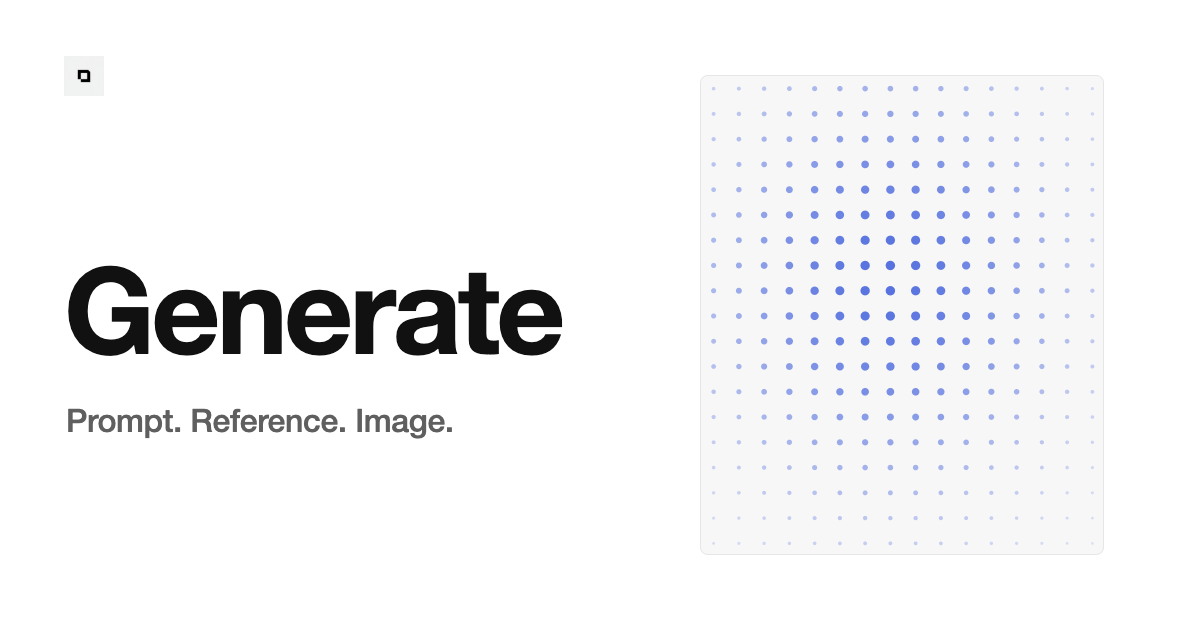
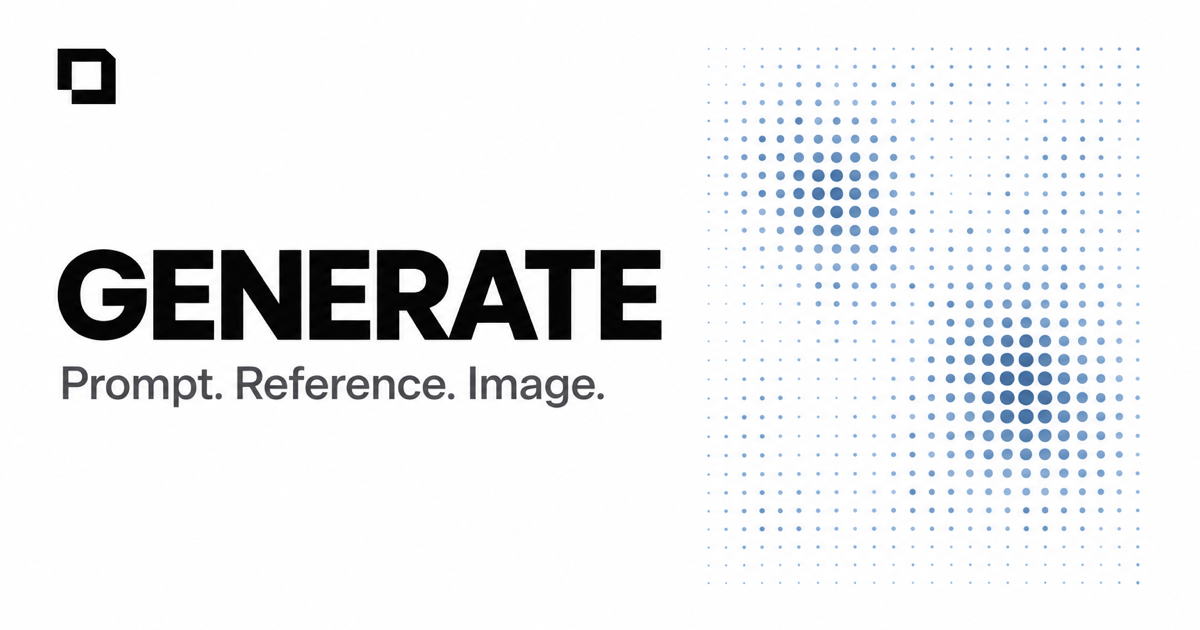
Generate OG: real Sunburst render, replacing the HTML/Playwright fallback
OPENAI_API_KEY is now available, so the Generate OG card no longer
needs the HTML/canvas workaround from the previous commit — it's
generated through the same pipeline as the other seven cards.

- research/og-images/depikt-og-prompts.md: added "## 8. Generate", a
  prompt in this file's established format (DESIGN SYSTEM / LAYOUT /
  TEXT — EXACT / STYLE RESTRICTIONS / OUTPUT) built from the detailed
  brief given for this card: GENERATE + "Prompt. Reference. Image.",
  left 55-60% typography, right 40-45% a static 4:5-portrait dot
  lattice on a strict grid with organic size/opacity variation and one
  or two denser "forming" regions, muted desaturated blue, no arrows/
  progress bar/spinner/blur/glow/gradient/stray particles/connecting
  lines/frame, no Flare or Sunburst names in the image itself. Updated
  the file's route-count header and usage line (was stale even before
  this — listed old builder/critic route names).
- scripts/og-images-run.ts: added "generate" to SECTION_TITLES and
  fixed the usage comment to list the actual current route keys.
- Ran `node scripts/og-images-run.ts generate --model sunburst
  --quality high`, which published the result straight to
  public/og/generate.png per the existing pipeline (center-cropped
  and resized to exactly 1200×630 — verified). No src changes needed:
  og-routes.ts already points "generate" at this path.

public/og/depikt-image-generation.png (the blog post's own cover, from
[…]

diff --git a/scripts/og-images-run.ts b/scripts/og-images-run.ts
@@ -9,7 +9,7 @@
  *
  * Usage:
  *   node scripts/og-images-run.ts all
- *   node scripts/og-images-run.ts home|library|builder|critic|gallery|blog [--model sunburst] [--quality high] [--no-publish]
+ *   node scripts/og-images-run.ts home|library|prompt|templates|gallery|blog|mcp|generate [--model sunburst] [--quality high] [--no-publish]
  *
  * Needs OPENAI_API_KEY in .env.local (or .env). Post-processing uses macOS `sips`.
  */
@@ -71,6 +71,7 @@ const SECTION_TITLES: Record<OgRouteKey, string> = {
   gallery: "## 5. Gallery",
   blog: "## 6. Blog",
   mcp: "## 7. MCP",
+  generate: "## 8. Generate",
 };
 
 function codeBlockAfter(md: string, heading: string): string {

diff --git a/research/og-images/depikt-og-prompts.md b/research/og-images/depikt-og-prompts.md
@@ -1,11 +1,12 @@
 # Depikt OG image prompts
 
-Six route-level social cards for Depikt. All six belong to one family and are generated with
+Eight route-level social cards for Depikt. All eight belong to one family and are generated with
 ChatGPT Images 2.5 (`gpt-image-2.5-sunburst`, quality `high`) using `public/logo.png` as the
 only reference image. Generation runs outside the product with
-`node scripts/og-images-run.ts [home|library|builder|critic|gallery|blog|all]` (needs
-`OPENAI_API_KEY` in `.env.local`). The model renders 1536×864 (16:9); the script center-crops to
-1536×806 and resizes to 1200×630, so every prompt keeps a 5% top/bottom safe margin.
+`node scripts/og-images-run.ts [home|library|prompt|templates|gallery|blog|mcp|generate|all]`
+(needs `OPENAI_API_KEY` in `.env.local`). The model renders 1536×864 (16:9); the script
+center-crops to 1536×806 and resizes to 1200×630, so every prompt keeps a 5% top/bottom safe
+margin.
 
 Attempts, logs, and rejected takes live in `research/og-images/runs/`. Only the approved
 1200×630 PNGs are copied to `public/og/<route>.png`.
@@ -591,4 +592,77 @@ Landscape.
 Precise editorial composition.
 Crisp typography.
 Strong social-preview readability.
+```
+
+## 8. Generate (`public/og/generate.png`)
+
+```text
+Create a premium 1200×630 Open Graph image for Depikt's new Generate page.
+
+Use the attached Depikt logo as the exact brand reference. Preserve its shape and proportions
+exactly; do not redraw, reinterpret, distort, embellish, recolor, or replace it. Place it small
+and understated in the upper-left.
+
+DESIGN SYSTEM
+
+Clean editorial product design. Pure white background. Near-black typography. A restrained,
+muted, desaturated processing-blue accent — not bright electric blue. Generous whitespace.
+Minimal and premium. It should feel consistent with a modern creative tool, not a generic AI
+SaaS banner.
+
+LAYOUT
+
+Left 55–60% of the canvas: typography and whitespace, vertically centered.
+
+Place the Depikt logo small in the upper-left.
+
+Large bold headline:
+
+"GENERATE"
+
+Below it, smaller clean sans-serif line:
+
+"Prompt. Reference. Image."
+
+Strong hierarchy between the two lines. No decorative type. No extra copy beyond these two
+lines.
+
+Right 40–45% of the canvas: a static visual inspired by Depikt's processing / "ThinkingField"
+animation — a precise rectangular dot lattice contained within an approximately 4:5 portrait
+image area, roughly vertically centered.
+
+The dots sit on a strict fixed grid — do not let them drift off-grid. Dot size and opacity vary
+organically across the field: some regions have tiny faint dots, some have medium dots, and one
+or two soft concentrated areas have larger, darker dots, as if an image is gradually forming
+from information. There is no actual picture inside the field, only dots. The field's
+rectangular boundary should be implied by where the grid stops — no visible frame or border
+around it, and no border around the full OG image.
+
+TEXT — EXACT
+
+Render only:
+
+"GENERATE"
+
+"Prompt. Reference. Image."
+
+Preserve the exact spelling, capitalization, and punctuation above. Do not add any other
+readable text, labels, URLs, model names, badges, captions, or watermarks anywhere in the image.
+
+STYLE RESTRICTIONS
+
+No arrows. No progress bar. No literal loading spinner. No blur or glow on the dot field. No
+gradients anywhere. No particles floating outside the grid. No connecting lines between dots.
+No OpenAI or ChatGPT logo. No "Flare" or "Sunburst" names anywhere in the image. No fake app
+interface, browser chrome, or mock dashboard. No generic AI sparkle iconography. No 3D objects.
+No photography. No heavy-shadow SaaS card design.
+
+The muted blue used in the dot field should feel integrated with Depikt's monochrome design
+system, not like a bright accent color borrowed from another brand.
+
+OUTPUT
+
+1200×630 pixels. Landscape. Crisp typography. Strong thumbnail readability. Communicate that
+Depikt has moved from prompts into image creation through restraint and the forming-dot visual,
+not by explaining it with more text.
 ```
